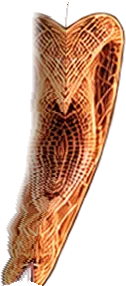
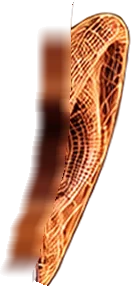
Character v3: no flipped ear under the face
The part of each ear that continues under the face was a mirror of the ear,
which drew a second, flipped ear (a V in the bowl) as soon as the head
turned. It's now the ear's root in soft shadow (its own darkest tone,
smoothed down the ear, tapering at the top and bottom). Stills re-baked.

Claude-Session: https://claude.ai/code/session_01PDghr1U5saYiR9N3dbNNMs

diff --git a/scripts/cut-character.py b/scripts/cut-character.py
@@ -58,6 +58,7 @@ FACE_RIM = 8
 # has to be more than that, with a soft end beyond it.
 EAR_UNDER = 24
 EAR_FADE = 10
+EAR_TAPER = 24     # rows over which that strip fades in and out at the ear's top and bottom
 # The template's mouth, in 2x head-frame px: the lips (centre x, y, radii) keep
 # their own lines; the rest of the hidden face takes a coarser mesh, scaled
 # about `centre` by MESH_SCALE to match the new art's line spacing.
@@ -224,7 +225,7 @@ def face_under_beard(tpl, rgb, a, own, beard):
 def split_ear(tpl, rgb, a, own, name):
     """Where the face's rim ends and the ear begins, row by row: the dark crease
     between them. Everything on the face's side goes to the face, so its rim
-    turns with it; the ear goes on under the face, mirrored across the crease."""
+    turns with it; the ear's root goes on under the face, in shadow."""
     right = name == 'ear-left'          # the character's left ear is on the picture's right
     ear_t = tpl[name][..., 3] > 0.3
     face_t = tpl['face'][..., 3] > 0.5
@@ -256,21 +257,54 @@ def split_ear(tpl, rgb, a, own, name):
     own[name] = np.where(band, pair * ear_side, own[name])
 
     shows = np.clip(a * own[name], 0, 1)
-    # Under the face: the ear's own texture mirrored across the crease, shaded a
-    # little deeper the further it goes in (it's tucked under the face), opaque
-    # for EAR_UNDER px, then fading out.
+    # Under the face: the ear's root, in shadow. Mirroring the ear itself there
+    # drew a second, flipped ear (a "V" in the bowl) the moment the head turned,
+    # so it's the ear's own darkest tone near the crease instead, as tall as the
+    # ear's front edge in each row: opaque for EAR_UNDER px, then fading.
+    side = 1 if right else -1
+    shade = np.zeros((len(ys), 3), np.float32)
+    edge_a = np.zeros(len(ys), np.float32)
+    for i, (y, c) in enumerate(zip(ys, np.round(cs).astype(int))):
+        xs = c + side * np.arange(1, 13)
+        xs = xs[(xs >= 0) & (xs < W)]
+        px = rgb[y, xs][shows[y, xs] > 0.6]
+        if len(px):
+            lum = px @ np.array([0.2126, 0.7152, 0.0722], np.float32)
+            shade[i] = px[lum <= np.percentile(lum, 30)].mean(0)
+        edge_a[i] = shows[y, c + side * np.arange(1, 4)].max() if 0 <= c + side * 3 < W else 0
+    have = edge_a > 0.3
+    if have.any():
+        idx = np.arange(len(ys))
+        for ch in range(3):
+            shade[:, ch] = np.interp(idx, idx[have], shade[have, ch])
+    shade = ndimage.gaussian_filter1d(shade, 6, axis=0) * 0.8
+    # Only where the ear really meets the face, tapering at the top and bottom,
+    # so the strip never pokes out above or below the ear.
+    lab, n = ndimage.label(edge_a > 0.3)
+    if n:
+        keep = lab == (np.bincount(lab[lab > 0]).argmax())
+        idx = np.where(keep)[0]
+        taper = np.zeros(len(ys), np.float32)
+        span = np.arange(idx[0], idx[-1] + 1)
+        taper[span] = np.clip(np.minimum(span - idx[0], idx[-1] - span) / EAR_TAPER, 0, 1)
+        edge_a = edge_a * taper
+    edge_a = ndimage.gaussian_filter1d(edge_a, 2)
+    # The ear's front edge, smoothed down the ear: per-row pixels stretched sideways read as streaks.
+    edge_rgb = np.array([rgb[y, min(max(c + side * 2, 0), W - 1)] for y, c in zip(ys, np.round(cs).astype(int))])
+    edge_rgb = ndimage.gaussian_filter1d(edge_rgb, 5, axis=0)
     part_rgb = rgb.copy()
     part_a = shows.copy()
     under = np.zeros((H, W), bool)
-    for y, c in zip(ys, np.round(cs).astype(int)):
+    for i, (y, c) in enumerate(zip(ys, np.round(cs).astype(int))):
+        edge = edge_rgb[i]
         for d in range(EAR_UNDER + EAR_FADE):
-            x = c - d if right else c + d                 # under the face
-            m = c + 1 + d if right else c - 1 - d         # its mirror on the ear
-            if not (0 <= x < W and 0 <= m < W):
+            x = c - side * d                              # under the face
+            if not 0 <= x < W:
                 continue
             fade = 1.0 if d < EAR_UNDER else 1 - (d - EAR_UNDER + 1) / (EAR_FADE + 1)
-            part_rgb[y, x] = rgb[y, m] * (0.8 - 0.3 * d / (EAR_UNDER + EAR_FADE))
-            part_a[y, x] = max(part_a[y, x], shows[y, m] * fade)
+            mix = min(1.0, d / 10)                        # from the ear's edge into the shadow
+            part_rgb[y, x] = edge * (1 - mix) + shade[i] * mix
+            part_a[y, x] = max(part_a[y, x], edge_a[i] * fade)
             under[y, x] = True
     # Row by row leaves stair-steps where the ear ends; soften them.
     zone = ndimage.binary_dilation(under, iterations=3) & ~(shows > 0.6)

diff --git a/docs/adr/0005-character-component.md b/docs/adr/0005-character-component.md
@@ -66,7 +66,7 @@ The head art was refreshed (new colours, eyes, texture) and delivered as one fla
 - **Template and source:** the v2 head parts moved to `scripts/character/template/`; the render is `scripts/character/head-v3-source.webp` (lossless). The cap and the glasses stay v2.
 - **What a flat render can't give:**
   - The face under the beard isn't in it. There, v3's face is v2's chin and lips with the new art's colour (carried down each column, since the face is teal on one side and orange on the other), its line contrast, and a mesh drawn 1.25x coarser away from the lips to match its line spacing. It's matched to the source where the two meet, so no outline shows. Only What I Do's bare-face step shows it; everywhere else the beard covers it.
-  - Ears: the face's glowing rim goes with the face (the split follows the dark crease between rim and ear), and each ear continues ~24px under the face, mirrored and shaded, then fades. At a full turn the face moves ~14px further than the ears, so the join never opens.
+  - Ears: the face's glowing rim goes with the face (the split follows the dark crease between rim and ear), and each ear's root continues ~24px under the face as a soft shadow in the ear's own darkest tone, tapering at the top and bottom, then fades. Mirroring the ear there drew a second, flipped ear. At a full turn the face moves ~14px further than the ears, so the join never opens.
   - Eyes where the face covers them are continued from what shows (OpenCV Telea), so the gaze never uncovers an edge.
 - **Stills:** the hero's side characters and the phone portrait were re-baked with the same recipes, so the stills still match the live layers they crossfade into.
 - **If the beardless face arrives**, cut it the same way and swap the face's lower half for it; nothing else changes.
